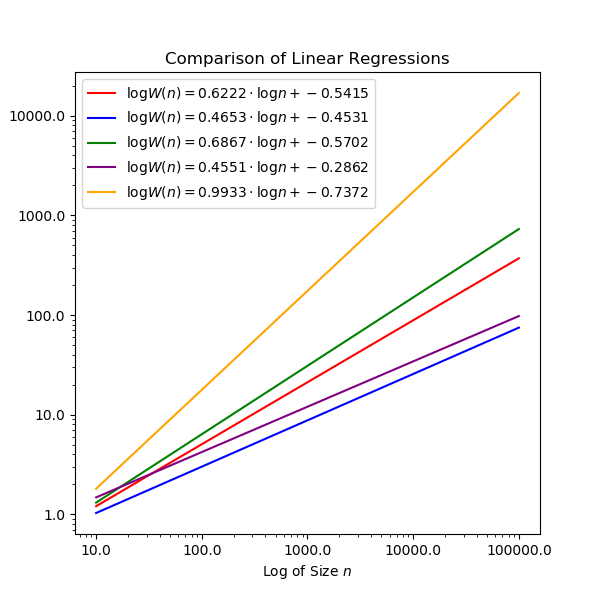
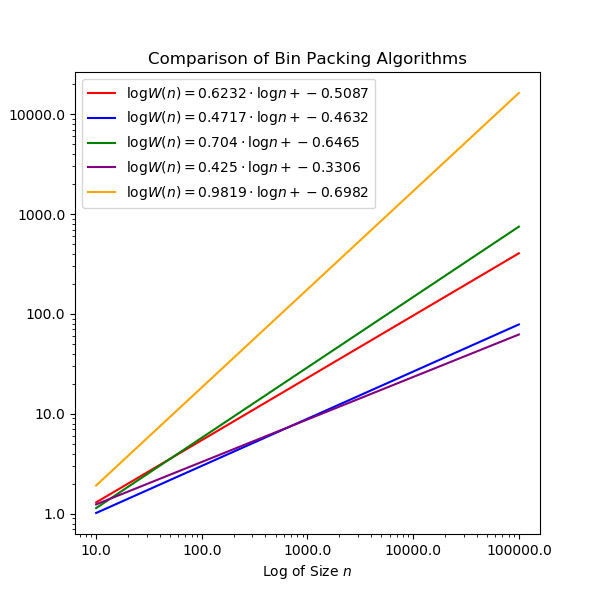
Not finished; still have report lmao

diff --git a/src/main.cpp b/src/main.cpp
@@ -3,18 +3,31 @@
 using namespace std;
 typedef void (*algorithm)(const vector<double>&, vector<int>&, vector<double>&); 
 
-string filename = "wait.csv";
+string filename = "qualities.csv";
 
 double run_bin_packing_algorithm(algorithm a, int n) {
     vector<double> items;
     generate_items(items, n);
-
     vector<int> assignment(items.size(), 0);
     vector<double> free_space;
 
     (*a)(items, assignment, free_space);
 
     return free_space.size() - sum(items);
+}
+
+void test_bin_packing_algorithm(algorithm a, string alg) {
+    vector<double> items;
+    generate_test_items(items);
+    vector<int> assignment(items.size(), 0);
+    vector<double> free_space;
+
+    (*a)(items, assignment, free_space);
+
+    cout << "...testing correctness of " << alg <<  "..." << endl;
+    cout << "--------------------" << endl;
+    print_results(items, assignment, free_space);
+    cout << "--------------------" << endl;
 }
 
 void get_qualities(algorithm a, string alg, int reps, int limit) {
@@ -48,6 +61,14 @@ int main() {
     get_qualities(&first_fit_decreasing, "first fit decreasing", reps, limit);
     get_qualities(&best_fit, "best fit", reps, limit);
     get_qualities(&best_fit_decreasing, "best fit decreasing", reps, limit);
+
+/*
+    test_bin_packing_algorithm(&next_fit, "next fit");
+    test_bin_packing_algorithm(&first_fit, "first fit");
+    test_bin_packing_algorithm(&first_fit_decreasing, "first fit decreasing");
+    test_bin_packing_algorithm(&best_fit, "best fit");
+    test_bin_packing_algorithm(&best_fit_decreasing, "best fit decreasing");
+*/
 
     return 0;
 }

diff --git a/submit/main.cpp b/submit/main.cpp
@@ -8,13 +8,26 @@ string filename = "qualities.csv";
 double run_bin_packing_algorithm(algorithm a, int n) {
     vector<double> items;
     generate_items(items, n);
-
     vector<int> assignment(items.size(), 0);
     vector<double> free_space;
 
     (*a)(items, assignment, free_space);
 
     return free_space.size() - sum(items);
+}
+
+void test_bin_packing_algorithm(algorithm a, string alg) {
+    vector<double> items;
+    generate_test_items(items);
+    vector<int> assignment(items.size(), 0);
+    vector<double> free_space;
+
+    (*a)(items, assignment, free_space);
+
+    cout << "...testing correctness of " << alg <<  "..." << endl;
+    cout << "--------------------" << endl;
+    print_results(items, assignment, free_space);
+    cout << "--------------------" << endl;
 }
 
 void get_qualities(algorithm a, string alg, int reps, int limit) {
@@ -48,6 +61,14 @@ int main() {
     get_qualities(&first_fit_decreasing, "first fit decreasing", reps, limit);
     get_qualities(&best_fit, "best fit", reps, limit);
     get_qualities(&best_fit_decreasing, "best fit decreasing", reps, limit);
+
+/*
+    test_bin_packing_algorithm(&next_fit, "next fit");
+    test_bin_packing_algorithm(&first_fit, "first fit");
+    test_bin_packing_algorithm(&first_fit_decreasing, "first fit decreasing");
+    test_bin_packing_algorithm(&best_fit, "best fit");
+    test_bin_packing_algorithm(&best_fit_decreasing, "best fit decreasing");
+*/
 
     return 0;
 }

diff --git a/src/utils.cpp b/src/utils.cpp
@@ -43,11 +43,39 @@ void generate_items(vector<double>& items, int n) {
         items.push_back(randdouble());
 }
 
+void generate_test_items(vector<double>& items) {
+    items.push_back(.2);
+    items.push_back(.5);
+    items.push_back(.4);
+    items.push_back(.7);
+    items.push_back(.1);
+    items.push_back(.3);
+    items.push_back(.8);
+}
+
 void print_items(const vector<double>& items) {
     int n = items.size();
     for (int i = 0; i < n; ++i)
         cout << items[i] << endl;
     cout << "-------" << endl;
+}
+
+void print_results(const vector<double>& items, const vector<int>& assignment, const vector<double>& free_space) {
+    int n = items.size();
+    int bins = free_space.size();
+
+    cout << "Item Assignments" << endl;
+    cout << "--------------------" << endl;
+    for (int i = 0; i < n; ++i) {
+        cout << "Item " << items[i] << " assigned to bin " << assignment[i] << endl;
+    }
+
+    cout << "--------------------" << endl;
+    cout << "Bin Free Space" << endl;
+    cout << "--------------------" << endl;
+    for (int b = 0; b < bins; ++b) {
+        cout << "Bin " << b << ": " << free_space[b] << " left" << endl;
+    }
 }
 
 double sum(const vector<double>& items) {

diff --git a/submit/utils.cpp b/submit/utils.cpp
@@ -43,11 +43,39 @@ void generate_items(vector<double>& items, int n) {
         items.push_back(randdouble());
 }
 
+void generate_test_items(vector<double>& items) {
+    items.push_back(.2);
+    items.push_back(.5);
+    items.push_back(.4);
+    items.push_back(.7);
+    items.push_back(.1);
+    items.push_back(.3);
+    items.push_back(.8);
+}
+
 void print_items(const vector<double>& items) {
     int n = items.size();
     for (int i = 0; i < n; ++i)
         cout << items[i] << endl;
     cout << "-------" << endl;
+}
+
+void print_results(const vector<double>& items, const vector<int>& assignment, const vector<double>& free_space) {
+    int n = items.size();
+    int bins = free_space.size();
+
+    cout << "Item Assignments" << endl;
+    cout << "--------------------" << endl;
+    for (int i = 0; i < n; ++i) {
+        cout << "Item " << items[i] << " assigned to bin " << assignment[i] << endl;
+    }
+
+    cout << "--------------------" << endl;
+    cout << "Bin Free Space" << endl;
+    cout << "--------------------" << endl;
+    for (int b = 0; b < bins; ++b) {
+        cout << "Bin " << b << ": " << free_space[b] << " left" << endl;
+    }
 }
 
 double sum(const vector<double>& items) {

diff --git a/submit/first_fit_optimized.cpp b/submit/first_fit_optimized.cpp
@@ -1,11 +1,13 @@
 #include "project2.h"
 #include "utils.h"
 
+/*
 void first_fit(const vector<double>& items, vector<int>& assignment, vector<double>& free_space) {
     int n = items.size();
     int count = 0;
     int j;
     
+    free_space.push_back(1.0);
     for (int i = 0; i < n; ++i) {
         for (j = 0; j < count; ++j) {
             if (items[i] <= free_space[j]) {
@@ -15,7 +17,7 @@ void first_fit(const vector<double>& items, vector<int>& assignment, vector<doub
         }
         
         if (j >= count) {
-            free_space.push_back(1 - items[i]);
+            free_space.push_back(1.0 - items[i]);
             ++count;
         }
         assignment[i] = j;
@@ -29,6 +31,7 @@ void first_fit_decreasing(const vector<double>& items, vector<int>& assignment, 
     int count = 0;
     int j;
 
+    free_space.push_back(1.0);
     for (int i = 0; i < n; ++i) {
         for (j = 0; j < count; ++j) {
             if (sorted_items[i].value <= free_space[j]) {
@@ -44,3 +47,4 @@ void first_fit_decreasing(const vector<double>& items, vector<int>& assignment, 
         assignment[sorted_items[i].index] = j;
     }
 }
+*/

diff --git a/submit/best_fit_optimized.cpp b/submit/best_fit_optimized.cpp
@@ -1,6 +1,7 @@
 #include "project2.h"
 #include "utils.h"
 
+/*
 void best_fit(const vector<double>& items, vector<int>& assignment, vector<double>& free_space) {
     int n = items.size();
     int count = 0;
@@ -19,8 +20,8 @@ void best_fit(const vector<double>& items, vector<int>& assignment, vector<doubl
         }
         
         if (min >= 1.1) {
-            free_space.push_back(1 - items[i]);
-            bi = count++;
+            free_space.push_back(1.0 - items[i]);
+            bi = ++count;
         } else {
             free_space[bi] -= items[i];
         }
@@ -49,11 +50,12 @@ void best_fit_decreasing(const vector<double>& items, vector<int>& assignment, v
         }
         
         if (min >= 1.1) {
-            free_space.push_back(1 - sorted_items[i].value);
-            bi = count++;
+            free_space.push_back(1.0 - sorted_items[i].value);
+            bi = ++count;
         } else {
             free_space[bi] -= sorted_items[i].value;
         }
         assignment[sorted_items[i].index] = bi;
     }
 }
+*/

diff --git a/bin/create_graphs.py b/bin/create_graphs.py
@@ -73,7 +73,7 @@ def plot_all_qualities(filename, algs, points, lines, outfile=""):
                         c = colors[i],
             label = '$\\log{{W(n)}} = {}\\cdot \\log{{n}} + {}$'.format(round(m, 4), round(b, 4)))
 
-    set_up_plot(ax, "Best Fit Bin Packing Measurements")
+    set_up_plot(ax, "Comparison of Bin Packing Algorithms")
     ax.legend()
     
     if (outfile != ""):
@@ -88,10 +88,10 @@ if __name__ == "__main__":
     assert argc == 2, "program only accepts one file"
 
     plot_all_qualities(sys.argv[1], [
-#        'next fit', 
-#        'first fit', 
-#        'first fit decreasing',
+        'next fit', 
+        'first fit', 
+        'first fit decreasing',
         'best fit', 
         'best fit decreasing',
-        ], True, True, "best-fit.png")
-#    get_lines_from_file(sys.argv[1])
+        ], False, True, "all-lines.png")
+    #get_lines_from_file(sys.argv[1])

diff --git a/submit/first_fit.cpp b/submit/first_fit.cpp
@@ -6,7 +6,6 @@ void first_fit(const vector<double>& items, vector<int>& assignment, vector<doub
     int count = 0;
     int j;
     
-    free_space.push_back(1.0);
     for (int i = 0; i < n; ++i) {
         for (j = 0; j < count; ++j) {
             if (items[i] <= free_space[j]) {
@@ -16,7 +15,7 @@ void first_fit(const vector<double>& items, vector<int>& assignment, vector<doub
         }
         
         if (j >= count) {
-            free_space.push_back(1.0 - items[i]);
+            free_space.push_back(1 - items[i]);
             ++count;
         }
         assignment[i] = j;
@@ -30,7 +29,6 @@ void first_fit_decreasing(const vector<double>& items, vector<int>& assignment, 
     int count = 0;
     int j;
 
-    free_space.push_back(1.0);
     for (int i = 0; i < n; ++i) {
         for (j = 0; j < count; ++j) {
             if (sorted_items[i].value <= free_space[j]) {

diff --git a/submit/best_fit.cpp b/submit/best_fit.cpp
@@ -19,8 +19,8 @@ void best_fit(const vector<double>& items, vector<int>& assignment, vector<doubl
         }
         
         if (min >= 1.1) {
-            free_space.push_back(1.0 - items[i]);
-            bi = ++count;
+            free_space.push_back(1 - items[i]);
+            bi = count++;
         } else {
             free_space[bi] -= items[i];
         }
@@ -49,8 +49,8 @@ void best_fit_decreasing(const vector<double>& items, vector<int>& assignment, v
         }
         
         if (min >= 1.1) {
-            free_space.push_back(1.0 - sorted_items[i].value);
-            bi = ++count;
+            free_space.push_back(1 - sorted_items[i].value);
+            bi = count++;
         } else {
             free_space[bi] -= sorted_items[i].value;
         }

diff --git a/include/project2.h b/include/project2.h
@@ -1,0 +1,20 @@
+#ifndef PROJECT2_H
+#define PROJECT2_H
+
+#include <vector>
+#include <iostream>
+#include <algorithm>
+using namespace std;
+
+// implement in next_fit.cpp
+void next_fit(const vector<double>& items, vector<int>& assignment, vector<double>& free_space);
+
+// implement in first_fit.cpp
+void first_fit(const vector<double>& items, vector<int>& assignment, vector<double>& free_space);
+void first_fit_decreasing(const vector<double>& items, vector<int>& assignment, vector<double>& free_space);
+
+// implement in best_fit.cpp
+void best_fit(const vector<double>& items, vector<int>& assignment, vector<double>& free_space);
+void best_fit_decreasing(const vector<double>& items, vector<int>& assignment, vector<double>& free_space);
+
+#endif

diff --git a/include/utils.h b/include/utils.h
@@ -26,7 +26,7 @@ struct original {
     int index;
 };
 
-struct{
+struct {
     bool operator()(original a, original b) const {
         return a.value > b.value;
     }
